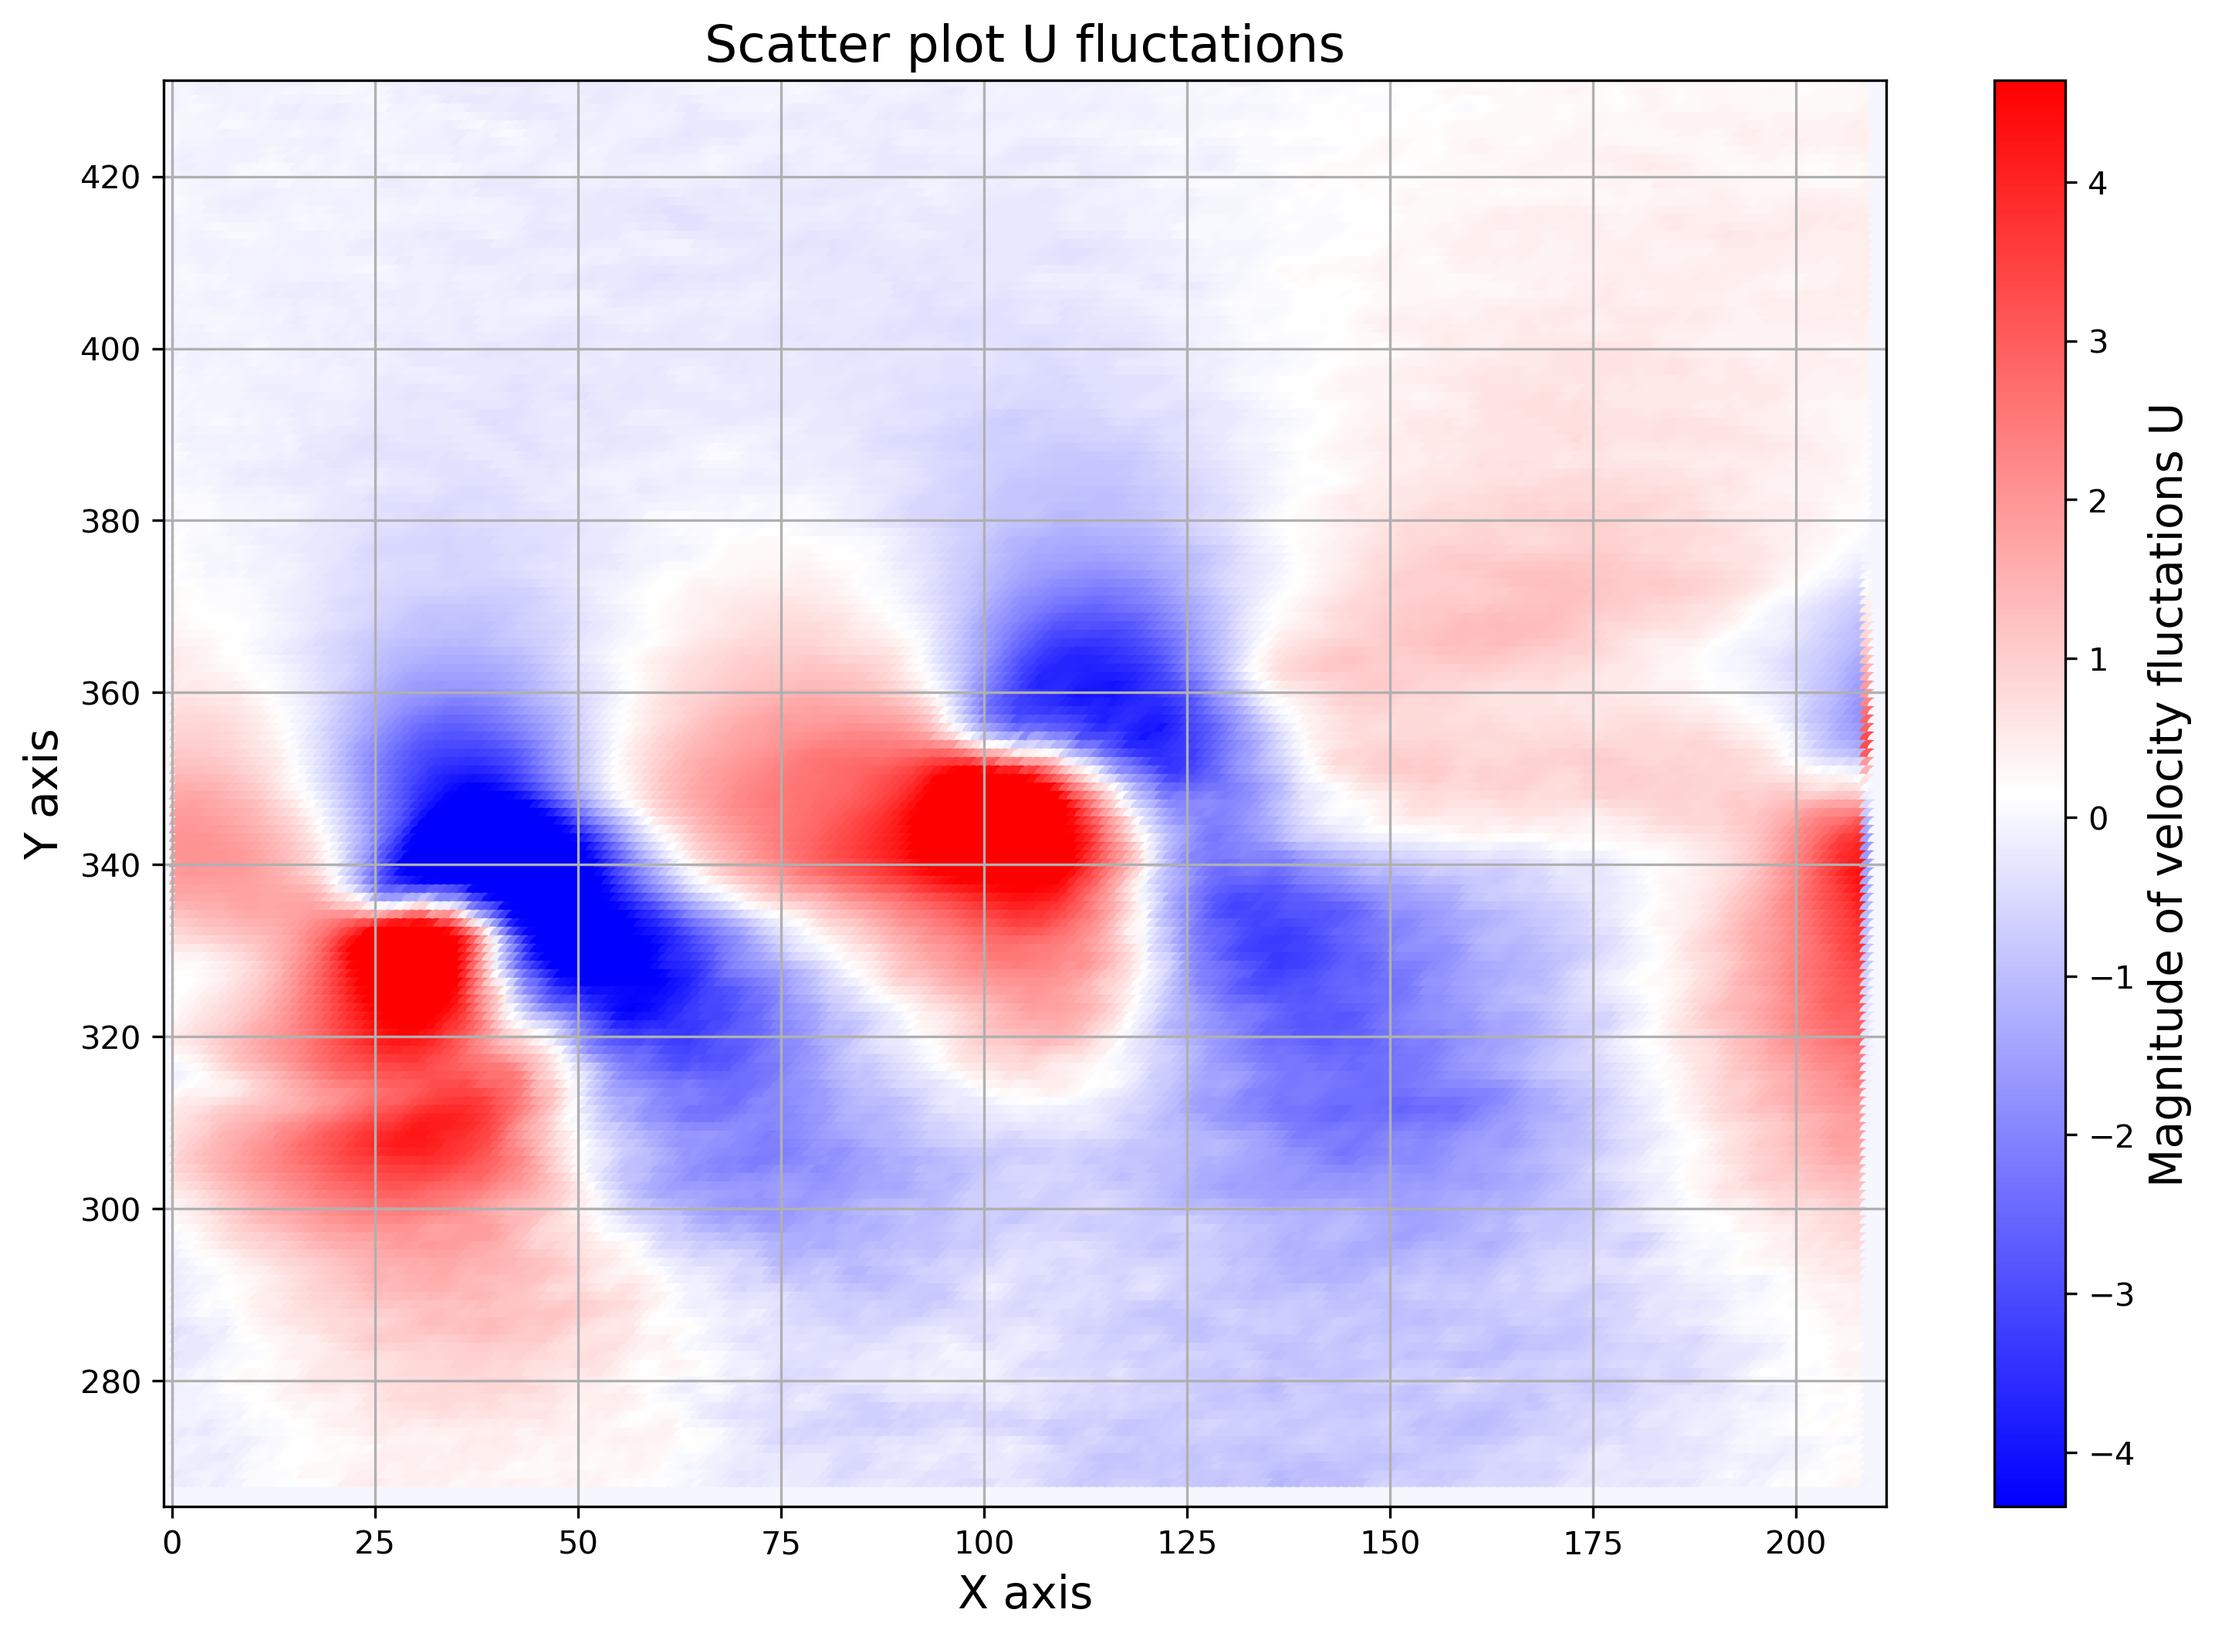
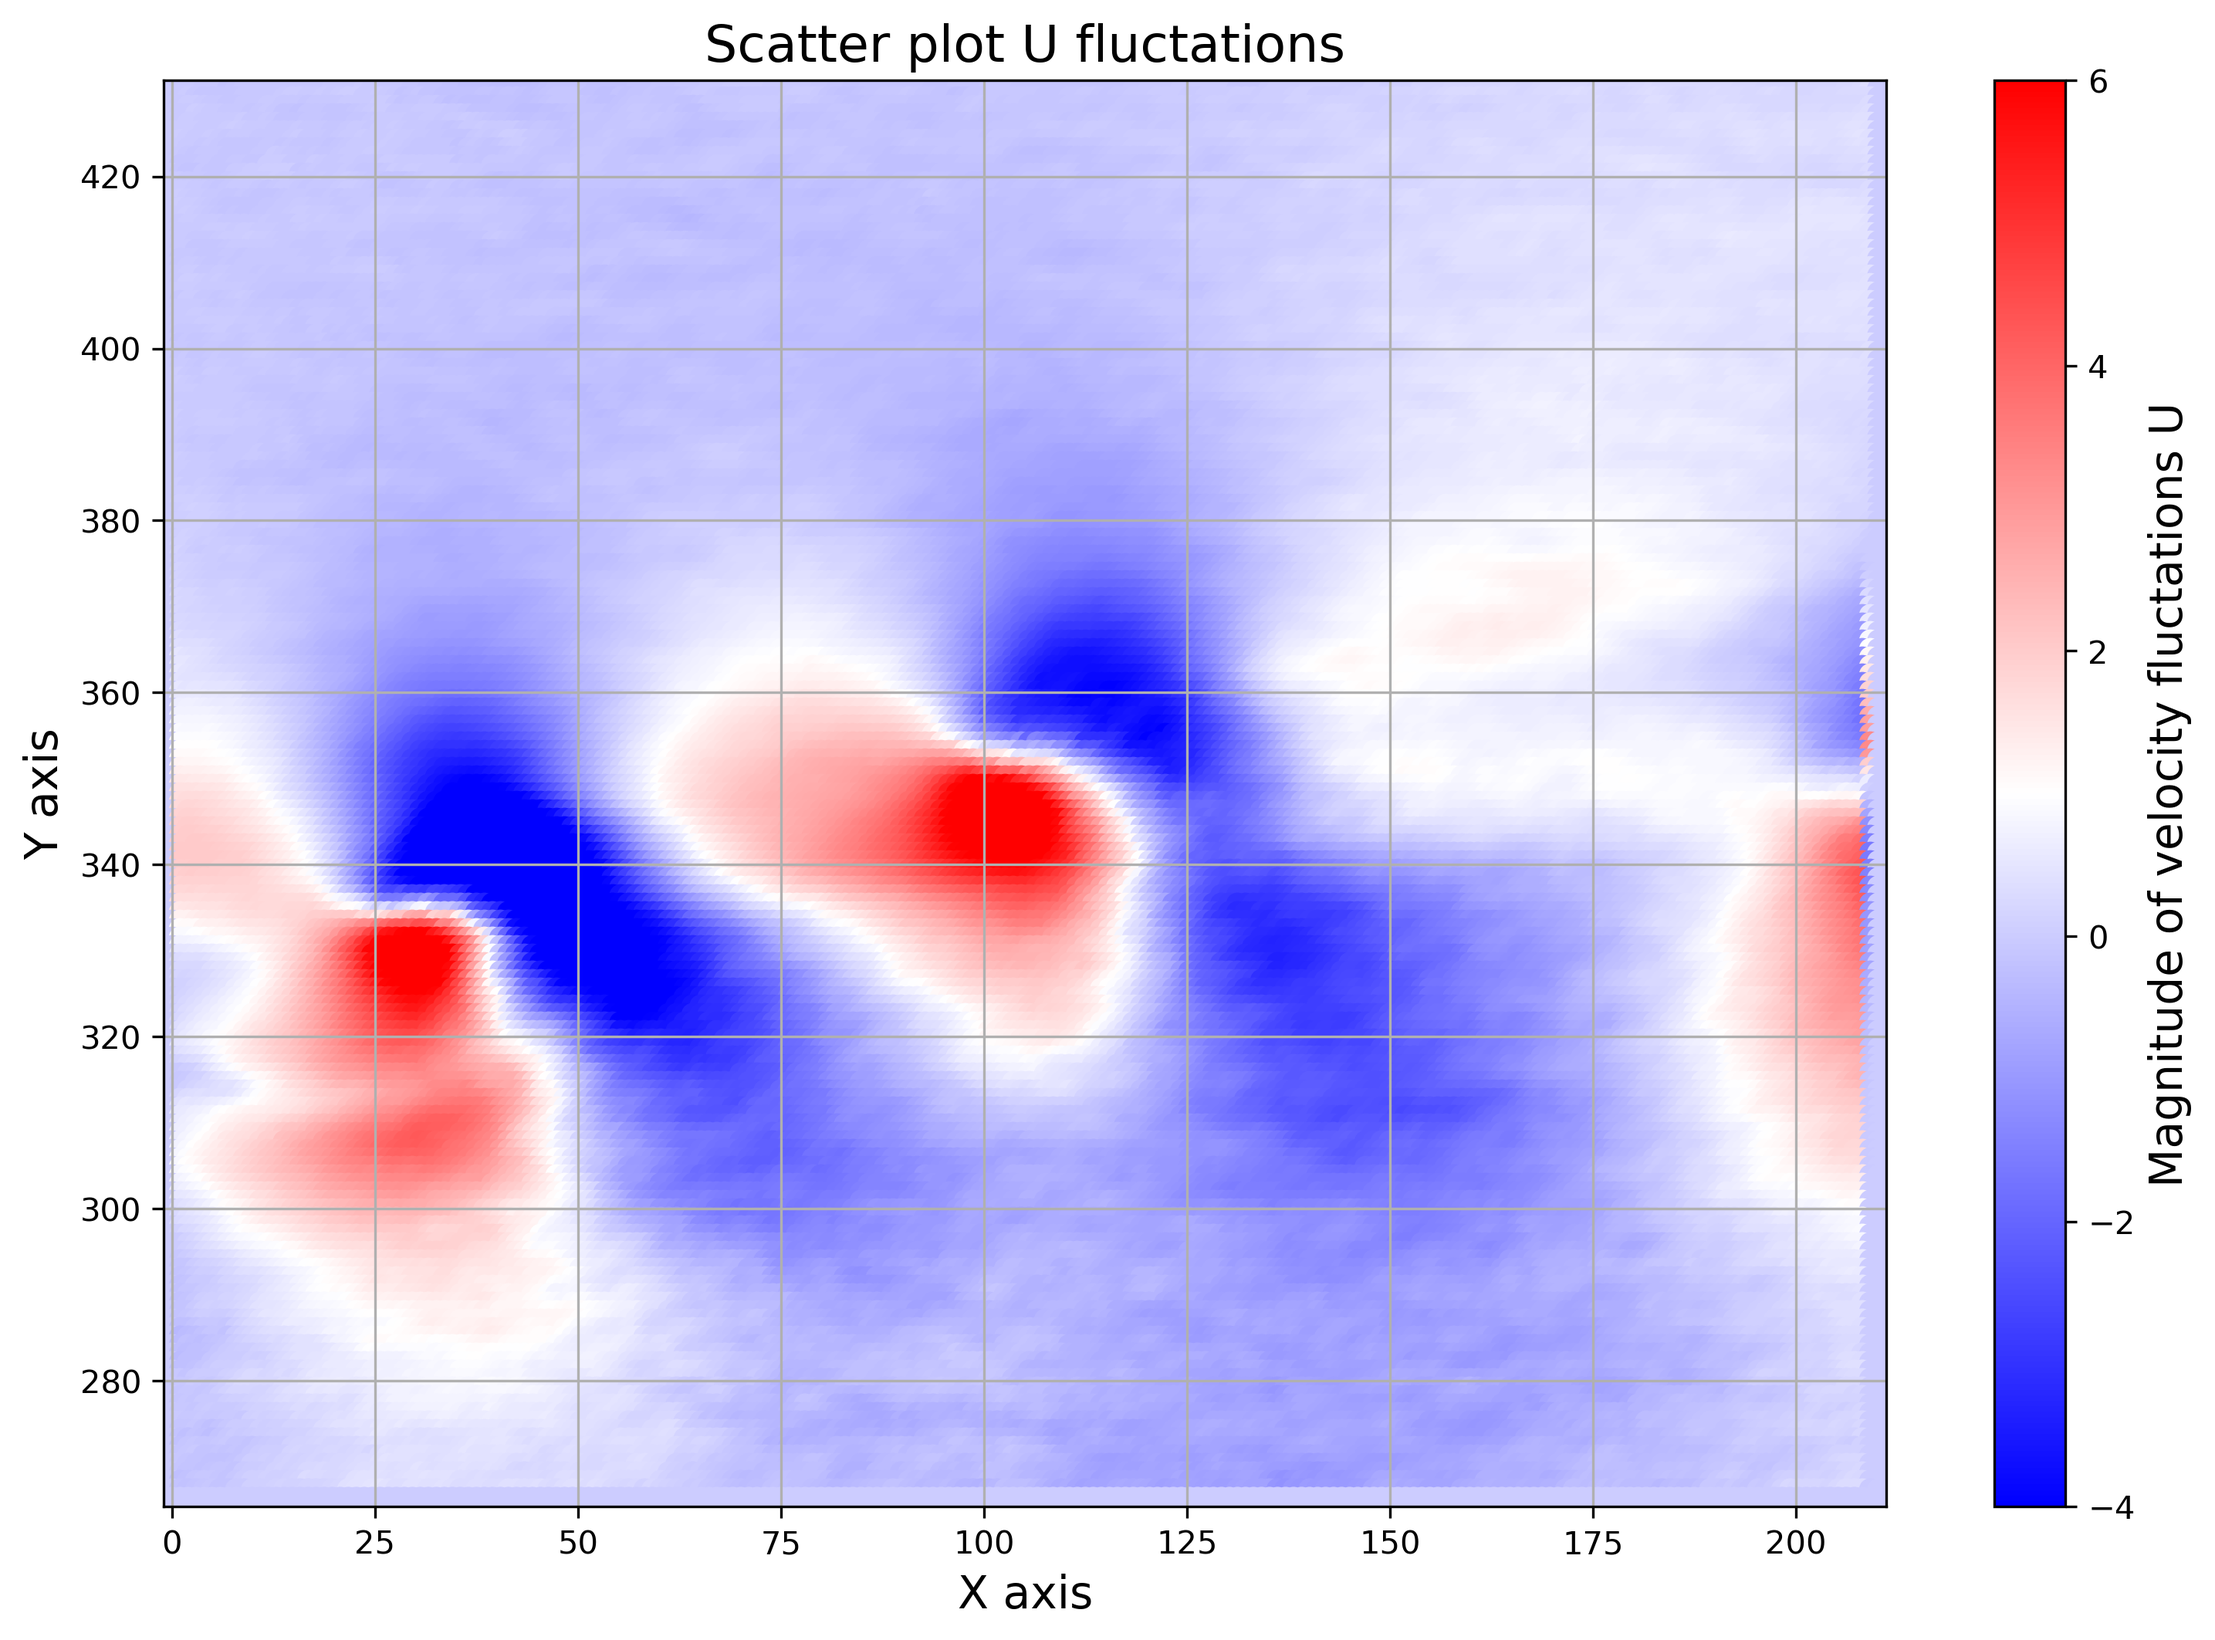
fixed

diff --git a/main.py b/main.py
@@ -16,19 +16,20 @@ from Vorticity_image_gen import Vorticity_image, Velocity_fluctuations_image, Tu
 from interpolate import interpol
 
 
-Planes=['B']#Add C
+Planes=['C']#Add C
 
 for plane in Planes:
     print(plane)
     for j in range(1,2): #ADD 0
-        '''average_U_arr, average_V_arr = average_values(1, 20, plane, j)
-        print('ok')
+        
+        average_U_arr, average_V_arr = average_values(1, 2500, plane, j)
+        #print('ok')
          
-        average_U_arr, average_V_arr=interpol(average_U_arr, average_V_arr)
+       # average_U_arr, average_V_arr=interpol(average_U_arr, average_V_arr)
             
         
-        time_average_image(average_U_arr, average_V_arr, plane, j)
-        '''
+        #time_average_image(average_U_arr, average_V_arr, plane, j)
+       
         if j==0:
             print('no bins')
         # Convert into bin averaged flow fields
@@ -42,14 +43,14 @@ for plane in Planes:
                 error, u_magnitudes, v_magnitudes = bin_average_velocities(i, plane, j)
                 if error==0:
                     break
-                #Velocity_fluctuations_image(u_magnitudes, v_magnitudes, average_U_arr, average_V_arr, plane, j, i)
+                Velocity_fluctuations_image(u_magnitudes, v_magnitudes, average_U_arr, average_V_arr, plane, j, i)
                 # Turbulent kinetic energy
                 #Turbulent_kinetic_energy(plane, j, i)
                 #vector fields
                 #bin_average_vector_field_image(i, plane, j)
 
                 # Obtain the flow properties for bin averaged flow fields and plot the flow properties / Visualize
-                Vorticity_image(u_magnitudes, v_magnitudes, plane, j, i)
+                #Vorticity_image(u_magnitudes, v_magnitudes, plane, j, i)
                 # fluctuations_image
                 
             

diff --git a/Vorticity_image_gen.py b/Vorticity_image_gen.py
@@ -92,8 +92,8 @@ def Velocity_fluctuations_image(u_magnitudes, v_magnitudes, average_U_arr, avera
     cmap = plt.colormaps.get_cmap('bwr')
 
     # Normalize magnitudes to range from 0 to 1
-    norm = Normalize(vmin=np.percentile(Velocity_fluctuations_u, 1), vmax=np.percentile(Velocity_fluctuations_u, 99))
-
+    #norm = Normalize(vmin=np.percentile(Velocity_fluctuations_u, 1), vmax=np.percentile(Velocity_fluctuations_u, 99))
+    norm = Normalize(-4, 6)
     
     
     # Set figure size and DPI for high-quality image
